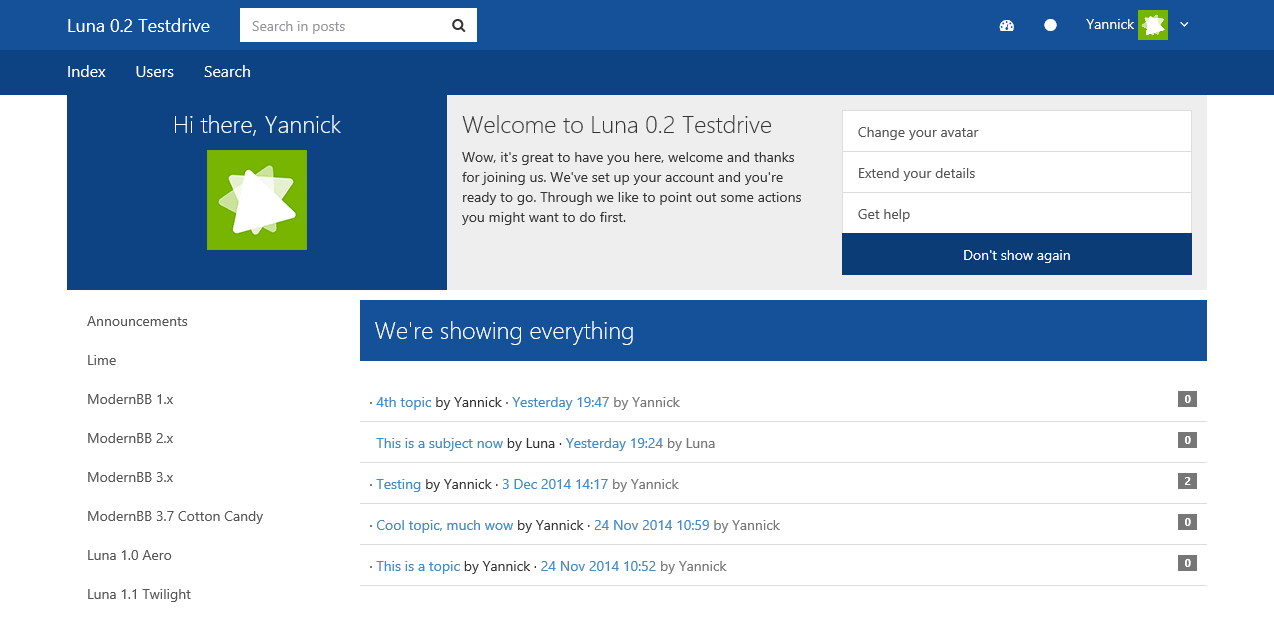
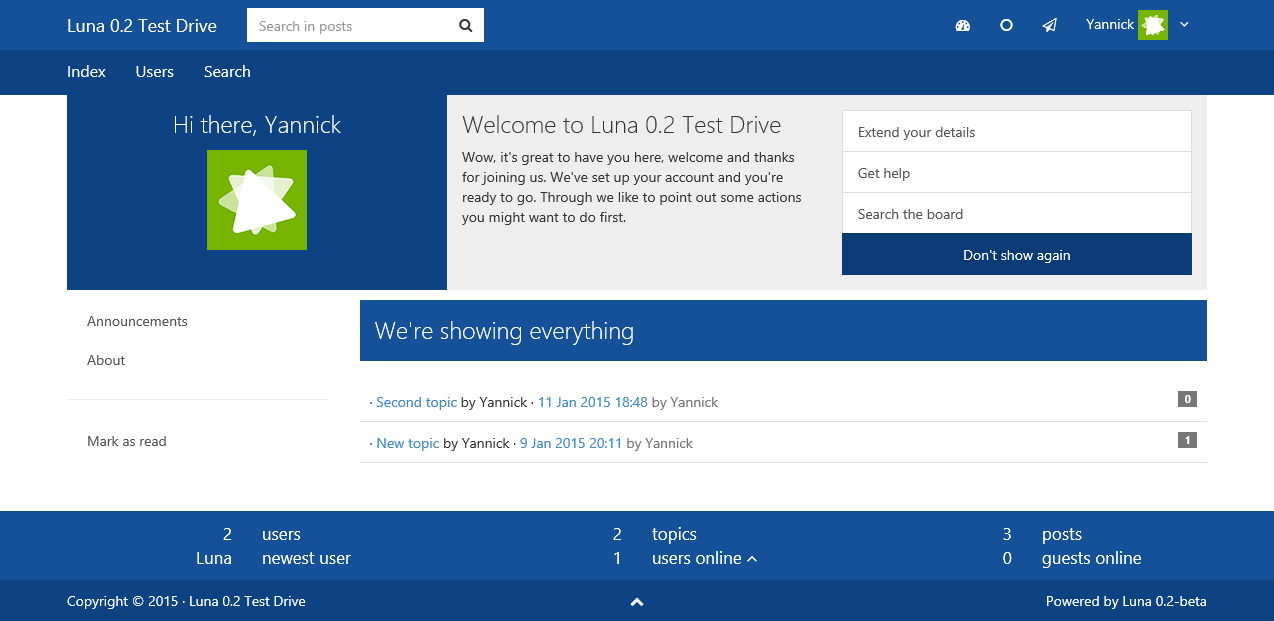
#1005 Update Backstage About - new screenshots

diff --git a/backstage/about.php b/backstage/about.php
@@ -204,7 +204,7 @@ require 'header.php';
 					</div>
 					<div class="col-sm-6">
 						<h4>Bugfixes</h4>
-						<p>45 bugs have been fixed.</p>
+						<p>47 bugs have been fixed.</p>
 						<h4>Security fixes</h4>
 						<p>3 security issue has been fixed.</p>
 					</div>
@@ -375,7 +375,10 @@ require 'header.php';
 								<span class="label label-danger">36xx</span> You can now change the size of emojis<br />
 								<span class="label label-danger">36xx</span> The copyright notice now can be altered by admins<br />
 								<span class="label label-danger">36xx</span> Moderation tools are now a Backstage feature<br />
-								<span class="label label-danger">36xx</span> The profile now shows the user's URL again
+								<span class="label label-danger">36xx</span> The profile now shows the user's URL again<br />
+								<span class="label label-danger">36xx</span> Multiple design improvements to Sunrise<br />
+								<span class="label label-danger">36xx</span> Help page design has been improved<br />
+								<span class="label label-danger">36xx</span> Improved design for the "Mark as read" button
 							</p>
 						</div>
 						<div class="col-sm-6">
@@ -386,6 +389,8 @@ require 'header.php';
 								<span class="label label-danger">36xx</span> Statistics in the footer can be disabled<br />
 								<span class="label label-danger">36xx</span> Core has been removed from the theme engine<br />
 								<span class="label label-danger">36xx</span> Improvements to the new profile settings<br />
+								<span class="label label-danger">36xx</span> Notifications have been split from the profile file<br />
+								<span class="label label-danger">36xx</span> The index no longer shows invalid messages<br />
 								<span class="label label-danger">36xx</span> Multiple bugfixes
 							</p>
 						</div>

diff --git a/include/version.php b/include/version.php
@@ -10,7 +10,7 @@ class Version {
 	const FORUM_VERSION = '0.2-beta';
 
 	// The Luna Core version
-	const FORUM_CORE_VERSION = '0.2.3612';
+	const FORUM_CORE_VERSION = '0.2.3614';
 
 	// The database version number, every change in the database requires this number to go one up
 	const FORUM_DB_VERSION = '87.14';
